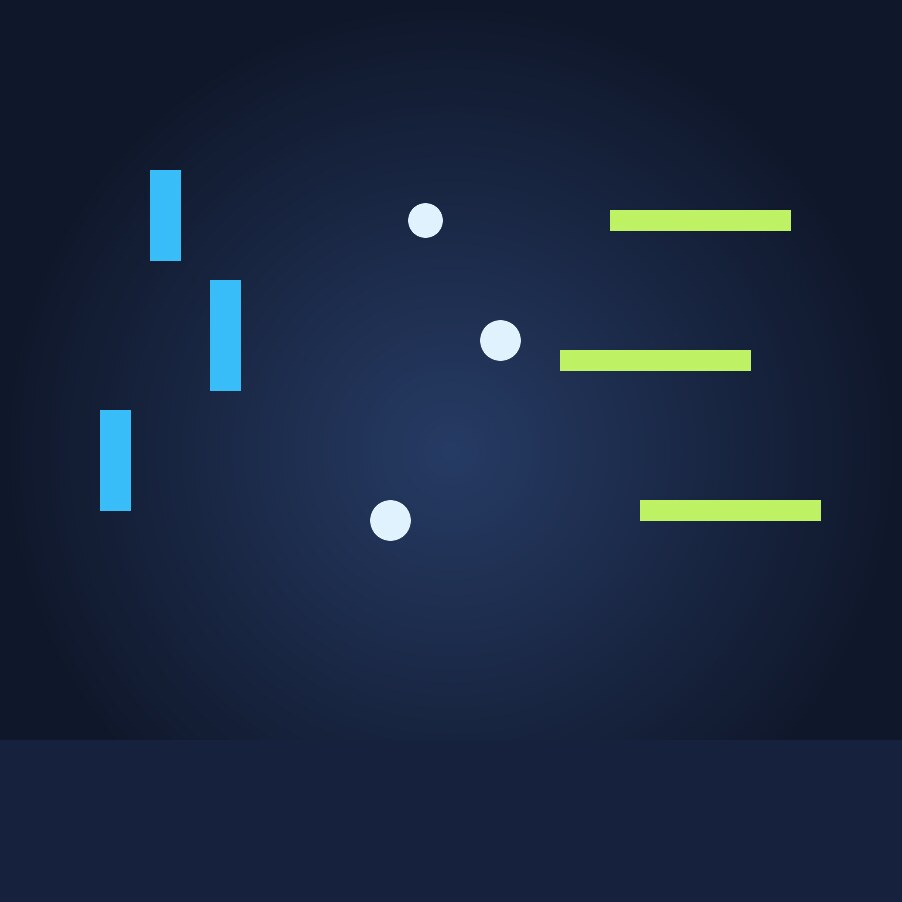
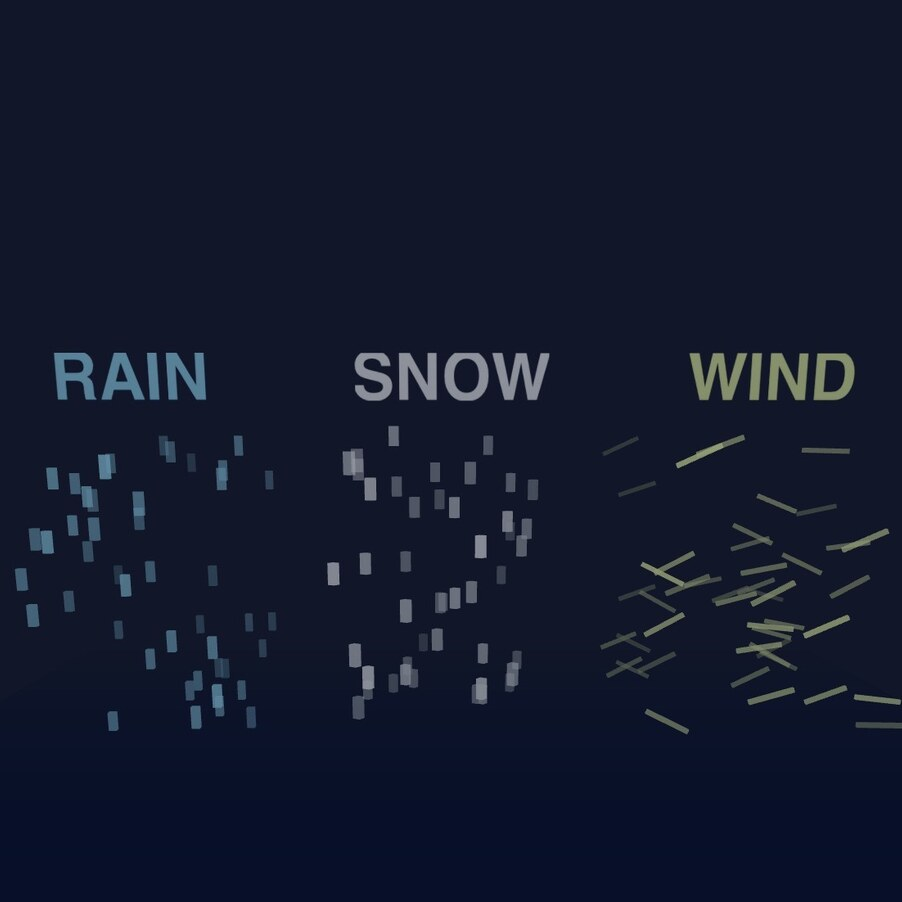
fix: polish example thumbnails and labels

diff --git a/public/page/examples/museumwall/index.html b/public/page/examples/museumwall/index.html
@@ -93,7 +93,7 @@
         autoAdd: false,
       });
       const label = create.text(title, {
-        size: [0.9, 0.18],
+        size: [1.12, 0.22],
         fontSize: 40,
         resolution: 2,
         color: "#4b3628",
